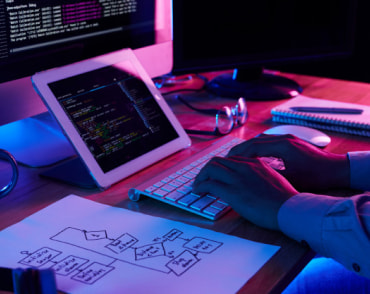
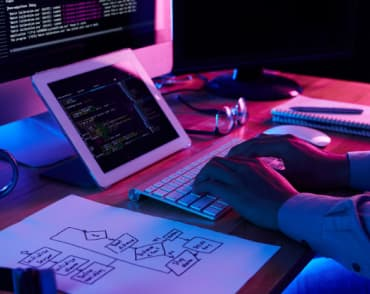
add Product srcset

diff --git a/index.html b/index.html
@@ -131,22 +131,25 @@
         <h2 class="title product__title">Чим ми займаємося</h2>
         <ul class="list grid">
           <li class="grid__item product__item">
-            <img class="product__img" src="./images/product/box_1.jpg" alt="Десктопні додатки" width="370"
-              height="294" />
+            <img class="product__img"
+              srcset="./images/product/box_1.jpg 1x, ./images/product/box_1@2x.jpg 2x, ./images/product/box_1@3x.jpg 3x"
+              src="./images/product/box_1.jpg" alt="Десктопні додатки" width="370" height="294">
             <div class="product__subtitle-overlay">
               <h3 class="product__subtitle">Десктопні додатки</h3>
             </div>
           </li>
           <li class="grid__item product__item">
-            <img class="product__img" src="./images/product/box_2.jpg" alt="Мобільні додатки" width="370"
-              height="294" />
+            <img class="product__img"
+              srcset="./images/product/box_2.jpg 1x, ./images/product/box_2@2x.jpg 2x, ./images/product/box_2@3x.jpg 3x"
+              src="./images/product/box_2.jpg" alt="Мобільні додатки" width="370" height="294">
             <div class="product__subtitle-overlay">
               <h3 class="product__subtitle">Мобільні додатки</h3>
             </div>
           </li>
           <li class="grid__item product__item">
-            <img class="product__img" src="./images/product/box_3.jpg" alt="Дизайнерські рішення" width="370"
-              height="294" />
+            <img class="product__img"
+              srcset="./images/product/box_3.jpg 1x, ./images/product/box_3@2x.jpg 2x, ./images/product/box_3@3x.jpg 3x"
+              src="./images/product/box_3.jpg" alt="Дизайнерські рішення" width="370" height="294">
             <div class="product__subtitle-overlay">
               <h3 class="product__subtitle">Дизайнерські рішення</h3>
             </div>
